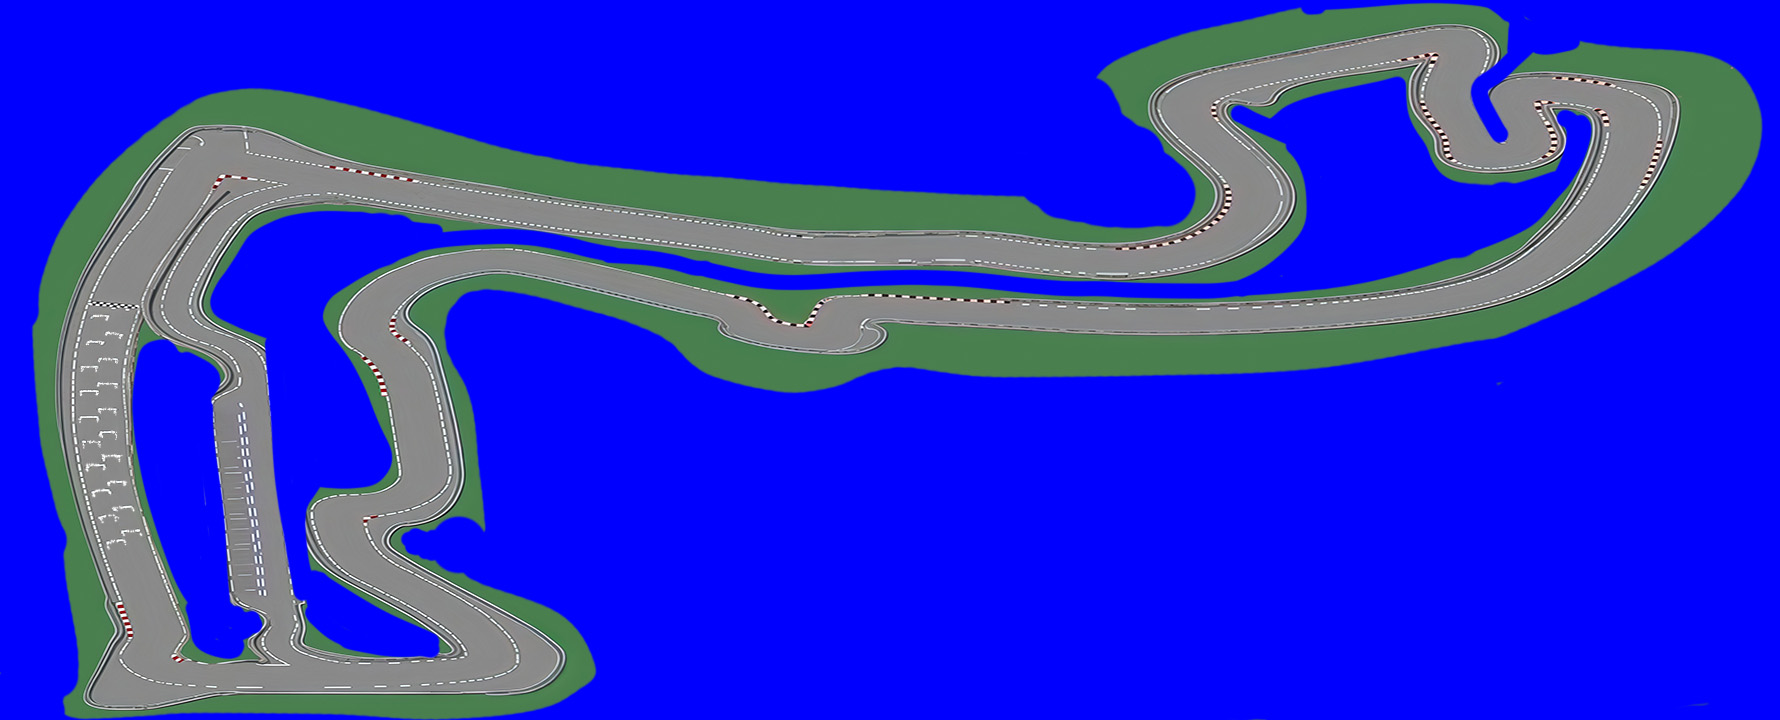
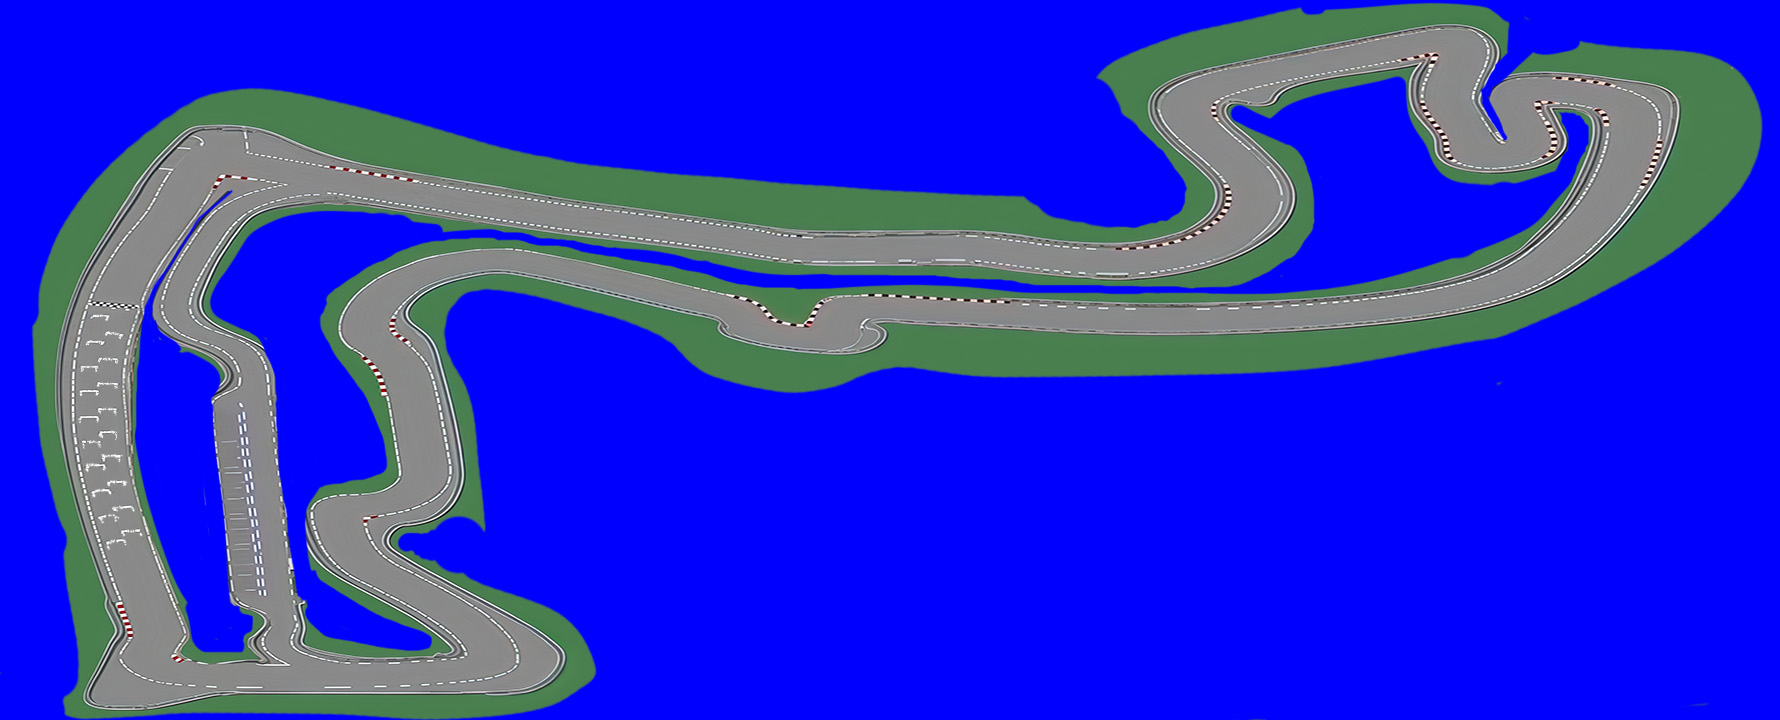
ColissionMapUpdated + Tests Invisible Walls

diff --git a/src/main/java/es/uab/tqs/f1_2D/vista/CarDisplay.java b/src/main/java/es/uab/tqs/f1_2D/vista/CarDisplay.java
@@ -19,10 +19,9 @@ public class CarDisplay extends JPanel {
     private CarController controller;
     private BufferedImage carImage;
     private BufferedImage largerMap; 
-    private BufferedImage collisionMap;
     private Set<Integer> keysPressed = new HashSet<>();
 
-    public CarDisplay(CarController controller, BufferedImage map) {
+    public CarDisplay(CarController controller, BufferedImage map, BufferedImage collisionMap) {
         this.controller = controller;
         this.largerMap = map;
         setFocusable(true);
@@ -56,7 +55,7 @@ public class CarDisplay extends JPanel {
             }
         });
 
-        new Timer(16, e -> { controller.processInput(keysPressed, largerMap);; repaint();}).start();
+        new Timer(16, e -> { controller.processInput(keysPressed, collisionMap); repaint();}).start();
     }
 
     @Override
@@ -94,7 +93,7 @@ public class CarDisplay extends JPanel {
                     car.getSprite().getWidth() / 2.0,
                     car.getSprite().getHeight() / 2.0);
             g2d.drawImage(car.getSprite(), transform, null);
-            /* hitbox for debugging
+            /* hitbox for debugging 
             g2d.setColor(Color.RED);
             g2d.setStroke(new BasicStroke(2)); 
             Rectangle rect = new Rectangle(0, 0, car.getSprite().getWidth(), car.getSprite().getHeight());
@@ -111,6 +110,8 @@ public class CarDisplay extends JPanel {
        
         BufferedImage backgroundImage = null;
         BufferedImage largeMap = null;
+        BufferedImage collisionImage = null;
+        BufferedImage collisionMap = null;
         double scaleFactor = 4.0;
 
         try {
@@ -126,6 +127,19 @@ public class CarDisplay extends JPanel {
             System.err.println("Error cargando el mapa: " + e.getMessage());
         }
 
+        try {
+            collisionImage = ImageIO.read(CarDisplay.class.getResource("/track/monacoCollision.jpg"));
+            int bigWidth = (int) (backgroundImage.getWidth() * scaleFactor);
+            int bigHeight = (int) (backgroundImage.getHeight() * scaleFactor);
+
+            collisionMap = new BufferedImage(bigWidth, bigHeight, BufferedImage.TYPE_INT_RGB);
+            Graphics2D gCollision = collisionMap.createGraphics();
+            gCollision.drawImage(collisionImage, 0, 0, bigWidth, bigHeight, null);
+            gCollision.dispose();
+        } catch (IOException e) {
+            System.err.println("Error cargando el mapa de collisiones: " + e.getMessage());
+        }
+
         
         int mapWidth = (largeMap != null) ? largeMap.getWidth() : 2000;
         int mapHeight = (largeMap != null) ? largeMap.getHeight() : 2000;
@@ -135,7 +149,7 @@ public class CarDisplay extends JPanel {
 
         
         JFrame frame = new JFrame("F1 2D");
-        CarDisplay display = new CarDisplay(controller, largeMap);
+        CarDisplay display = new CarDisplay(controller, largeMap, collisionMap);
         frame.add(display);
         frame.setSize(1024, 860);
         frame.setDefaultCloseOperation(JFrame.EXIT_ON_CLOSE);

diff --git a/src/test/java/es/uab/tqs/f1_2D/model/CarTest.java b/src/test/java/es/uab/tqs/f1_2D/model/CarTest.java
@@ -386,6 +386,31 @@ class CarTest
         assertTrue(car.trackLimits(map));
     }
 
+    @Test 
+    public void inviWallPartitionTest()
+    {
+        BufferedImage map = new BufferedImage(10, 10, BufferedImage.TYPE_INT_RGB);
+        //Test que comprova si el cotxe es troba amb una pared invisible que no permet el pas
+        map.setRGB(5, 5, Color.GREEN.getRGB());
+        car.setX(5);
+        car.setY(5);
+        assertFalse(car.invisibleWalls(map));
+
+        map.setRGB(4, 4, Color.BLUE.getRGB());
+        car.setX(4);
+        car.setY(4);
+        assertTrue(car.invisibleWalls(map));
+
+        map.setRGB(9, 9, Color.GRAY.getRGB());
+        car.setX(9);
+        car.setY(9);
+        assertFalse(car.invisibleWalls(map));
+
+        car.setX(999);
+        car.setY(999);
+        assertTrue(car.invisibleWalls(map));
+    }
+
     @Test
     public void updatePartitionTest()
     {
@@ -691,6 +716,39 @@ class CarTest
         car.setVelocity(-0.5);
         car.update(mapImageMock);
         assertTrue(car.trackLimits(mapImageMock));
+        assertTrue(5.0 == car.getX() && 5.0 == car.getY());
+    }
+
+    @Test
+    public void testInviWallFalse() {
+        when(mapImageMock.getRGB(0, 0)).thenReturn(Color.GRAY.getRGB());
+
+        car.setX(0);
+        car.setY(0);
+
+        assertFalse(car.invisibleWalls(mapImageMock));
+    }
+
+    @Test
+    public void testInviWallTrue() {
+        when(mapImageMock.getRGB(0, 0)).thenReturn(Color.BLUE.getRGB());
+
+        car.setX(0);
+        car.setY(0);
+
+        assertTrue(car.invisibleWalls(mapImageMock));
+    }
+
+    @Test
+    public void testInviWallNoMovement()
+    {
+        when(mapImageMock.getRGB(5, 5)).thenReturn(Color.BLUE.getRGB());
+
+        car.setX(5);
+        car.setY(5);
+        car.setVelocity(-0.5);
+        car.update(mapImageMock);
+        assertTrue(car.invisibleWalls(mapImageMock));
         assertTrue(5.0 == car.getX() && 5.0 == car.getY());
     }
 

diff --git a/src/main/java/es/uab/tqs/f1_2D/model/Car.java b/src/main/java/es/uab/tqs/f1_2D/model/Car.java
@@ -67,7 +67,7 @@ public class Car
     public boolean trackLimits(BufferedImage mapImage)
     {
         if (x < 0 || y < 0 || x >= mapWidth || y >= mapHeight) return true;
-        int color = mapImage.getRGB((int)x + 50, (int)y + 50);
+        int color = mapImage.getRGB((int)x + 40, (int)y + 40);
         Color c = new Color(color);
         int r = c.getRed();
         int g = c.getGreen();
@@ -76,14 +76,23 @@ public class Car
         int targetR = 73;
         int targetG = 127;
         int targetB = 78;
-        int tolerance = 5; 
+        int tolerance = 20; 
 
         boolean similarToGreen =
             Math.abs(r - targetR) <= tolerance &&
             Math.abs(g - targetG) <= tolerance &&
             Math.abs(b - targetB) <= tolerance;
 
-        return similarToGreen; 
+        targetR = 0;
+        targetG = 0;
+        targetB = 255;
+
+        boolean similarToBlue =
+            Math.abs(r - targetR) <= tolerance &&
+            Math.abs(g - targetG) <= tolerance &&
+            Math.abs(b - targetB) <= tolerance;
+
+        return similarToGreen || similarToBlue;
     }
 
     public void update(BufferedImage mapImage)
